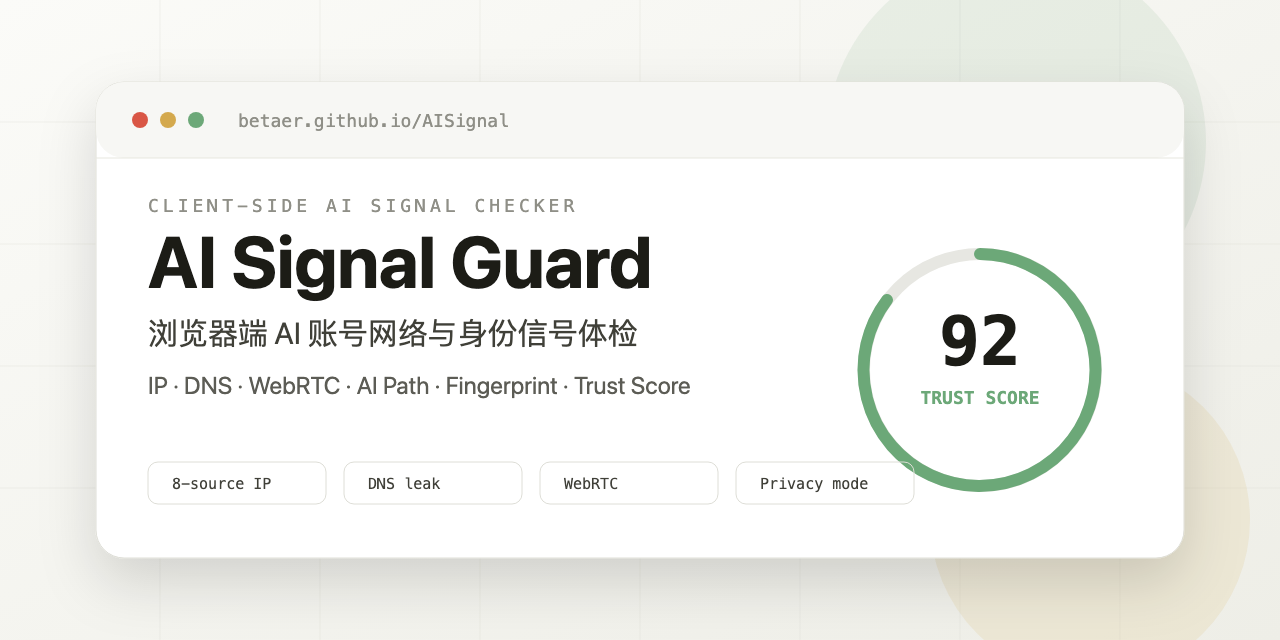
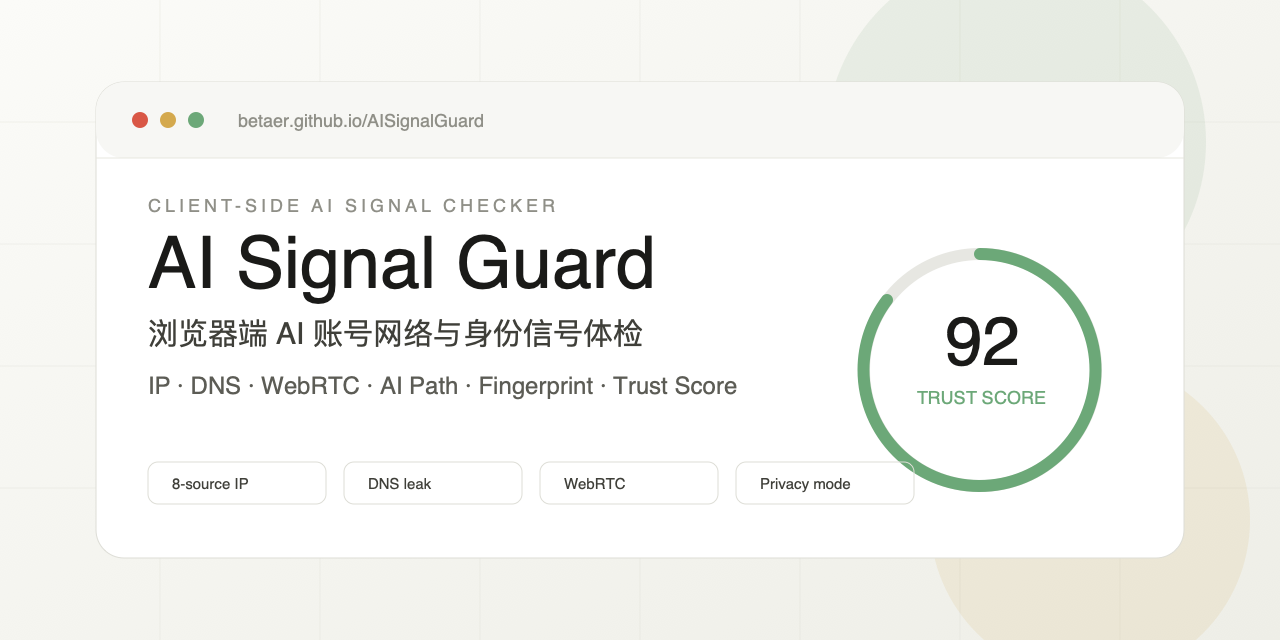
Update repository links to AISignalGuard

diff --git a/index.html b/index.html
@@ -16,8 +16,8 @@
       content="浏览器端 AI 账号网络与身份信号体检。核对 IP、DNS、WebRTC、AI 路径和指纹一致性。"
     />
     <meta property="og:type" content="website" />
-    <meta property="og:url" content="https://betaer.github.io/AISignal/" />
-    <meta property="og:image" content="https://betaer.github.io/AISignal/assets/social-preview.png" />
+    <meta property="og:url" content="https://betaer.github.io/AISignalGuard/" />
+    <meta property="og:image" content="https://betaer.github.io/AISignalGuard/assets/social-preview.png" />
     <meta property="og:image:width" content="1280" />
     <meta property="og:image:height" content="640" />
     <meta name="twitter:card" content="summary_large_image" />
@@ -26,7 +26,7 @@
       name="twitter:description"
       content="浏览器端 AI 账号网络与身份信号体检。核对 IP、DNS、WebRTC、AI 路径和指纹一致性。"
     />
-    <meta name="twitter:image" content="https://betaer.github.io/AISignal/assets/social-preview.png" />
+    <meta name="twitter:image" content="https://betaer.github.io/AISignalGuard/assets/social-preview.png" />
     <link rel="icon" href="favicon.svg?v=20260708-3" type="image/svg+xml" />
     <link rel="stylesheet" href="styles.css?v=20260708-2" />
     <script async src="https://www.googletagmanager.com/gtag/js?id=G-8YCMR5G9CN"></script>
@@ -57,7 +57,7 @@
           <button class="text-action" id="run-all" type="button">↻ 重测</button>
           <a
             class="github-link"
-            href="https://github.com/betaer/AISignal"
+            href="https://github.com/betaer/AISignalGuard"
             target="_blank"
             rel="noreferrer"
             aria-label="打开 GitHub 仓库"
@@ -142,13 +142,13 @@
 
     <footer class="site-footer">
       <div>
-        <span>AI Signal Guard</span>
+        <a href="https://betaer.github.io/AISignalGuard/">AI Signal Guard</a>
         <span>浏览器端隐私自查与安全研究工具</span>
       </div>
       <div>
         <a href="#sec-score">回到顶部</a>
-        <a href="https://github.com/betaer/AISignal/issues" target="_blank" rel="noreferrer">反馈问题</a>
-        <a href="https://github.com/betaer/AISignal" target="_blank" rel="noreferrer">源码</a>
+        <a href="https://github.com/betaer/AISignalGuard/issues/new/choose" target="_blank" rel="noreferrer">反馈问题</a>
+        <a href="https://github.com/betaer/AISignalGuard" target="_blank" rel="noreferrer">源码</a>
       </div>
     </footer>
 

diff --git a/app.js b/app.js
@@ -2,7 +2,7 @@
   "use strict";
 
   var RING_CIRCUMFERENCE = 326.726;
-  var REPO = "betaer/AISignal";
+  var REPO = "betaer/AISignalGuard";
   var NAV = [
     ["sec-score", "信任分"],
     ["sec-ip", "出口 IP"],
@@ -1822,8 +1822,8 @@
       "网络连通：" + networkShareStatus(),
       "AI 路径：" + aiPathShareStatus(),
       "",
-      "在线检测：https://betaer.github.io/AISignal/",
-      "开源仓库：https://github.com/betaer/AISignal"
+      "在线检测：https://betaer.github.io/AISignalGuard/",
+      "开源仓库：https://github.com/betaer/AISignalGuard"
     ].join("\n");
   }
 

diff --git a/docs/launch-kit.md b/docs/launch-kit.md
@@ -24,7 +24,7 @@ Description:
 
 Website:
 
-> https://betaer.github.io/AISignal/
+> https://betaer.github.io/AISignalGuard/
 
 Topics:
 
@@ -70,8 +70,8 @@ The page runs as a static client-side app. It groups the browser-visible signals
 
 There is no backend owned by this project. Some checks call third-party IP, DNS, STUN and status APIs, and the privacy panel lists those boundaries. The “copy diagnostic summary” button intentionally excludes IPs, DNS resolver addresses, organizations and fingerprint values so users can share a safe summary when asking for help.
 
-Repo: https://github.com/betaer/AISignal
-Demo: https://betaer.github.io/AISignal/
+Repo: https://github.com/betaer/AISignalGuard
+Demo: https://betaer.github.io/AISignalGuard/
 ```
 
 ## V2EX
@@ -100,8 +100,8 @@ Demo: https://betaer.github.io/AISignal/
 
 项目是纯静态页面，GitHub Pages 直接托管，没有自建后端。部分联网检测会访问第三方 IP、DNS、STUN 和状态 API，页面里写了隐私边界。
 
-在线体验：https://betaer.github.io/AISignal/
-GitHub：https://github.com/betaer/AISignal
+在线体验：https://betaer.github.io/AISignalGuard/
+GitHub：https://github.com/betaer/AISignalGuard
 
 欢迎提 issue，尤其是不同网络环境下 DNS/WebRTC/AI 路径的误判样本。
 ```
@@ -121,8 +121,8 @@ It is a client-side browser/network signal checker for AI services:
 - Cloudflare path checks for ChatGPT, Claude, OpenAI and Perplexity
 - privacy-safe diagnostic summary
 
-Demo: https://betaer.github.io/AISignal/
-GitHub: https://github.com/betaer/AISignal
+Demo: https://betaer.github.io/AISignalGuard/
+GitHub: https://github.com/betaer/AISignalGuard
 ```
 
 中文短帖：
@@ -138,8 +138,8 @@ GitHub: https://github.com/betaer/AISignal
 - ChatGPT / Claude / OpenAI / Perplexity 的 AI 路径
 - 隐私模式 + 不含敏感值的诊断摘要
 
-体验：https://betaer.github.io/AISignal/
-GitHub：https://github.com/betaer/AISignal
+体验：https://betaer.github.io/AISignalGuard/
+GitHub：https://github.com/betaer/AISignalGuard
 ```
 
 ## 20 秒 Demo 脚本

diff --git a/docs/release-v1.0.0.md b/docs/release-v1.0.0.md
@@ -19,11 +19,11 @@
 
 ## 在线体验
 
-https://betaer.github.io/AISignal/
+https://betaer.github.io/AISignalGuard/
 
 ## 仓库
 
-https://github.com/betaer/AISignal
+https://github.com/betaer/AISignalGuard
 
 ## 隐私边界
 

diff --git a/docs/repository-checklist.md b/docs/repository-checklist.md
@@ -3,7 +3,7 @@
 ## 必做
 
 - [ ] Settings -> General -> Social preview：上传 `assets/social-preview.png`。
-- [ ] About -> Website：填写 `https://betaer.github.io/AISignal/`。
+- [ ] About -> Website：填写 `https://betaer.github.io/AISignalGuard/`。
 - [ ] About -> Description：填写 `Client-side browser and network signal analyzer for AI services.`。
 - [ ] About -> Topics：填入 README 中列出的 topics。
 - [ ] Releases：创建 `v1.0.0`，正文使用 `docs/release-v1.0.0.md`。